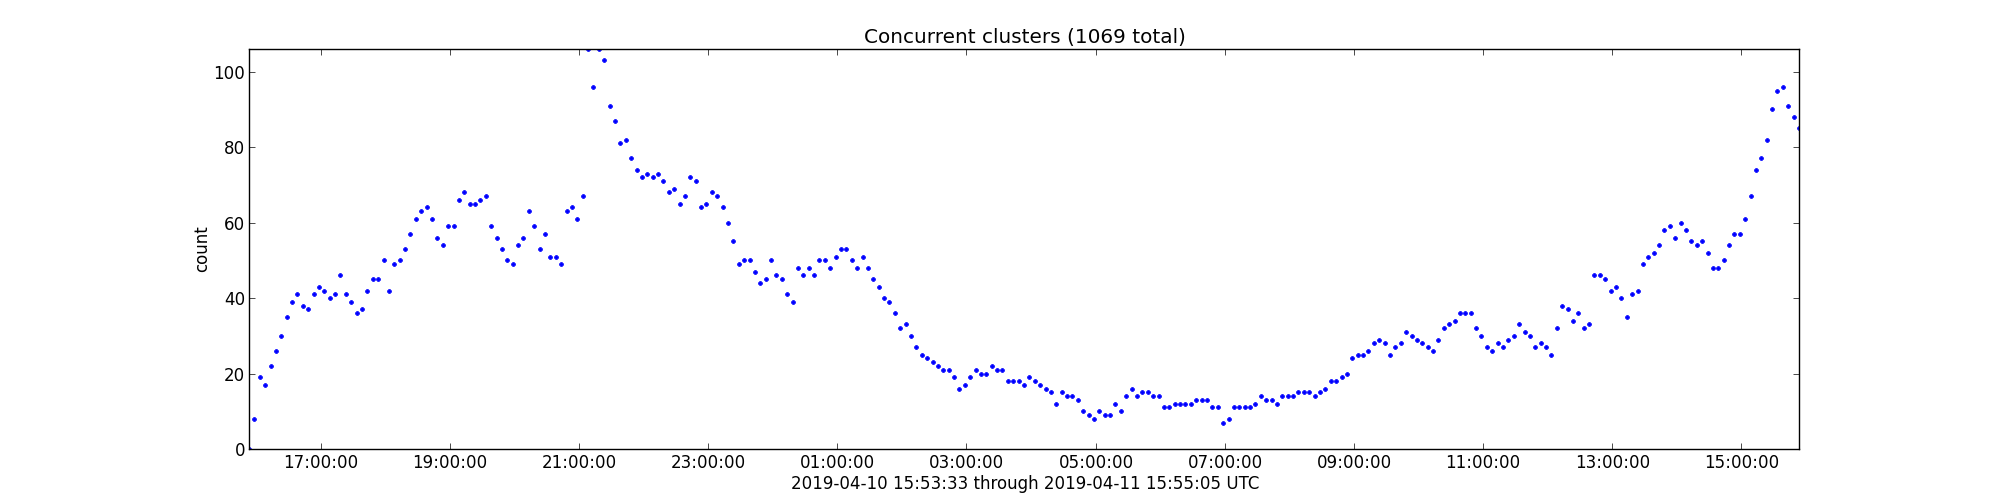
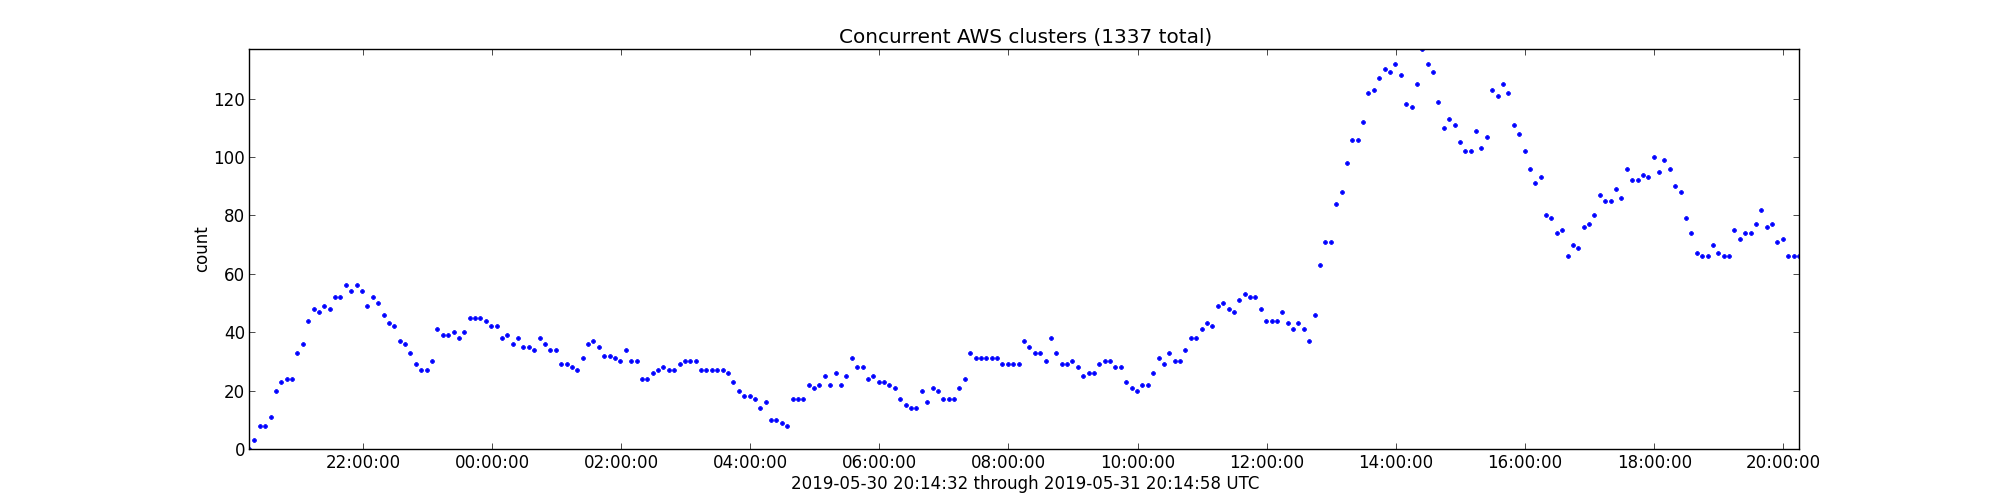
vpcs/concurrent: Broaden AWS job filter
Not all AWS jobs are e2e jobs.  Also add "AWS" to the chart title, to
make it clear that we are excluding other jobs.

diff --git a/vpcs/concurrent.py b/vpcs/concurrent.py
@@ -30,7 +30,7 @@ response.close()
 begin = datetime.datetime.now() - datetime.timedelta(hours=24)  # sometimes old jobs get stuck in Prow, and if we don't filter them they stretch out the early graph
 clusters = []
 for job in jobs:
-    if '-e2e-aws' not in job['job']:
+    if 'aws' not in job['job']:
         continue
     start, stop = start_stop(job)
     if stop is not None and stop < begin:
@@ -57,7 +57,7 @@ figure.set_size_inches(20, 5)
 
 axes = figure.add_subplot(1, 1, 1)
 axes.plot(times, concurrent, '.')
-axes.set_title('Concurrent clusters ({} total)'.format(len(clusters)))
+axes.set_title('Concurrent AWS clusters ({} total)'.format(len(clusters)))
 axes.set_ylabel('count')
 axes.set_xlabel('{} through {} UTC'.format(start.isoformat(' '), stop.isoformat(' ')))
 locator = matplotlib.dates.AutoDateLocator()
